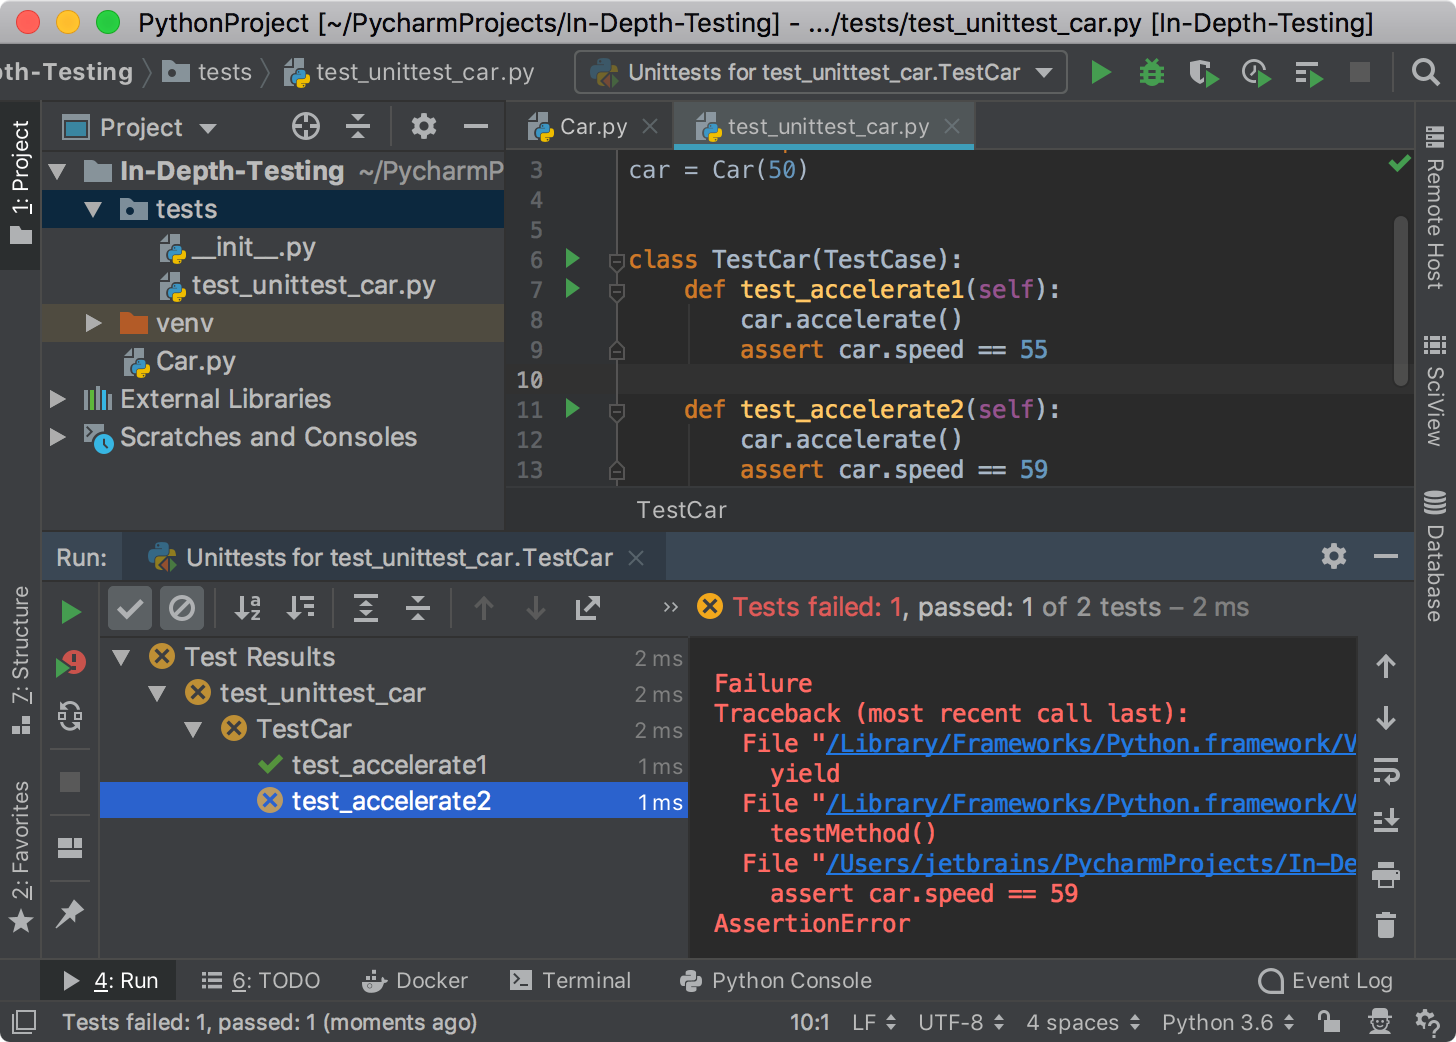
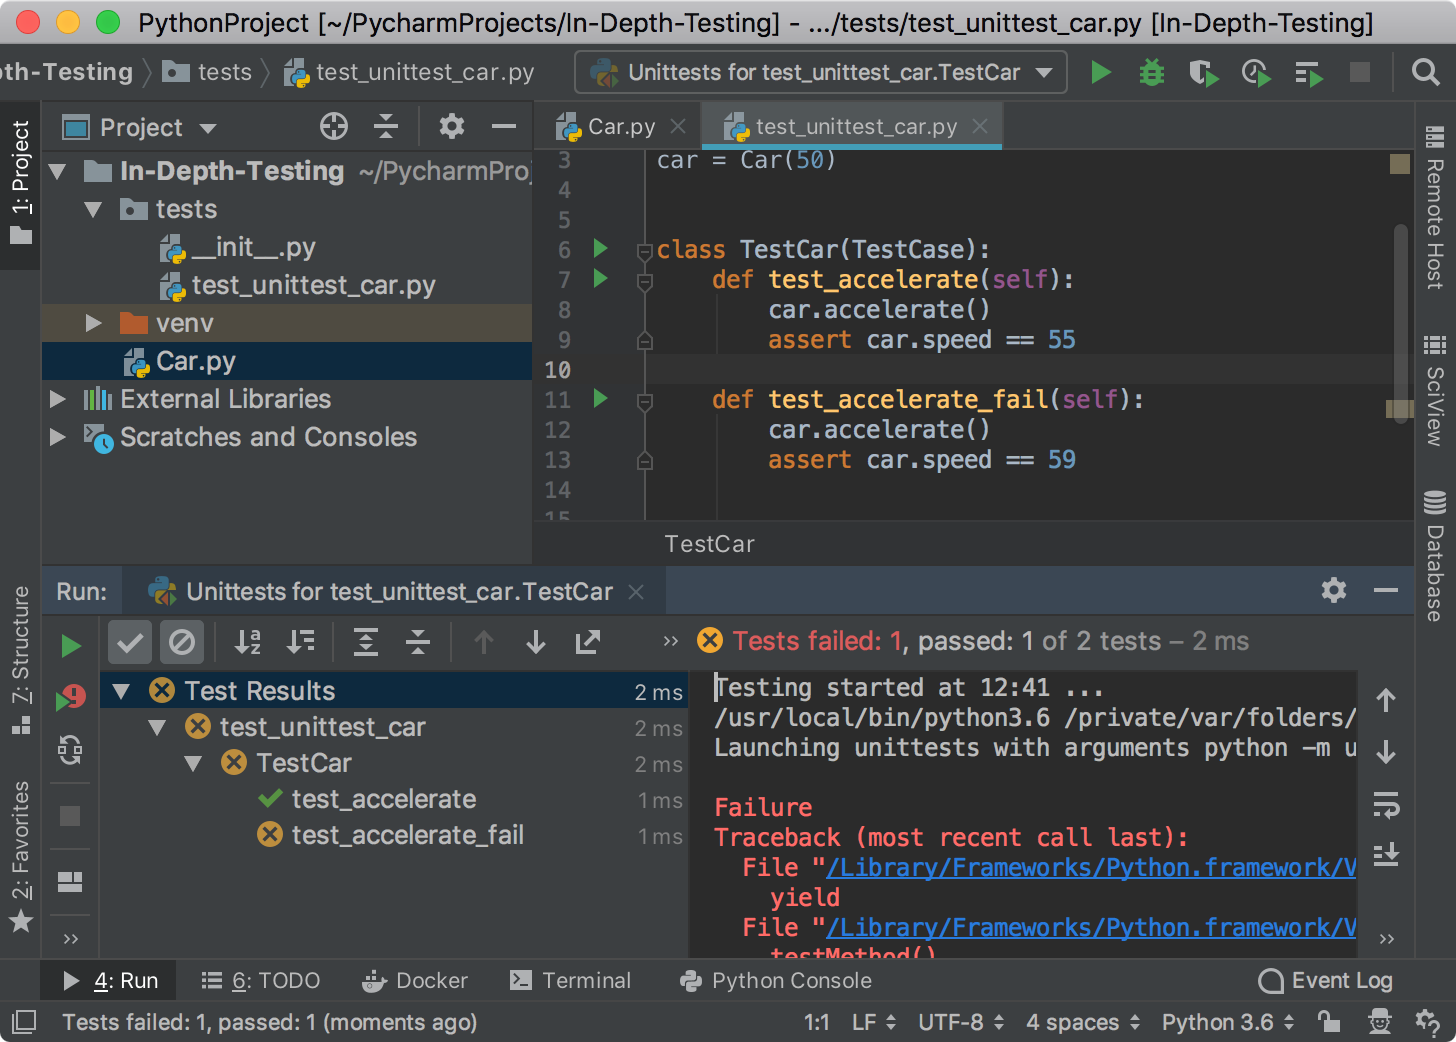
Running a test (failed test)

diff --git a/src/pages/tutorials/in_depth_testing/create_test/index.md b/src/pages/tutorials/in_depth_testing/create_test/index.md
@@ -60,8 +60,44 @@ the `Car.py` code should be true.
 
 1. The easiest way to execute the test is to press `Shift-10` (Win/Linux) or `Ctrl-R` (macOS).
 The **Run** tool window opens and shows the test execution status:
-![Create test dialog](screenshots/test_run_test.png) 
+![Run test](screenshots/test_run_test.png) 
 
+Although the very first test is quite simple, you can obtain the detailed information about the 
+test run. The **Test run toolbar** has many helpful features. For time being, look at the two of them:
 
+![Export test](screenshots/test_export_button.png)
+Export test results to an HTML, XML, or custom format.
+
+![Import test](screenshots/test_import_button.png)
+Import test results: you can download any previous test run results from the drop-down list or
+from the file.
+
+2. Let us modify the `TestCar` class and add the `test_accelerate_fail` function:
+
+```python
+from unittest import TestCase
+from Car import Car
+car = Car(50)
+ 
+ 
+class TestCar(TestCase):
+    def test_accelerate(self):
+        car.accelerate()
+        assert car.speed == 55
+
+    def test_accelerate_fail(self):
+        car.accelerate()
+        assert car.speed == 59
+``` 
+
+Now press `Shift-Ctrl-T` (Win/Linux) or `Shift-Command-T` (macOS) again and the test will fail
+as expected.
+
+![Failed test](screenshots/test_run_test_fail.png)
+
+To run each test function separately, you can opt to an alternative way for executing tests and
+scripts in PyCharm - clicking the corresponding **Run** icon in the left gutter of the **Editor**
+
+ ![Run test using the icon in the left gutter](screenshots/test_run_menu.png)
 
 

diff --git a/src/pages/tutorials/in_depth_testing/index.md b/src/pages/tutorials/in_depth_testing/index.md
@@ -21,6 +21,7 @@ using one of your favorite testing frameworks:
 - Python doctests
 - Tox
 - TwistedTrial
+
 You can run tests in parallel on several CPUs to optimize execution of your pytest tests.
 
 
